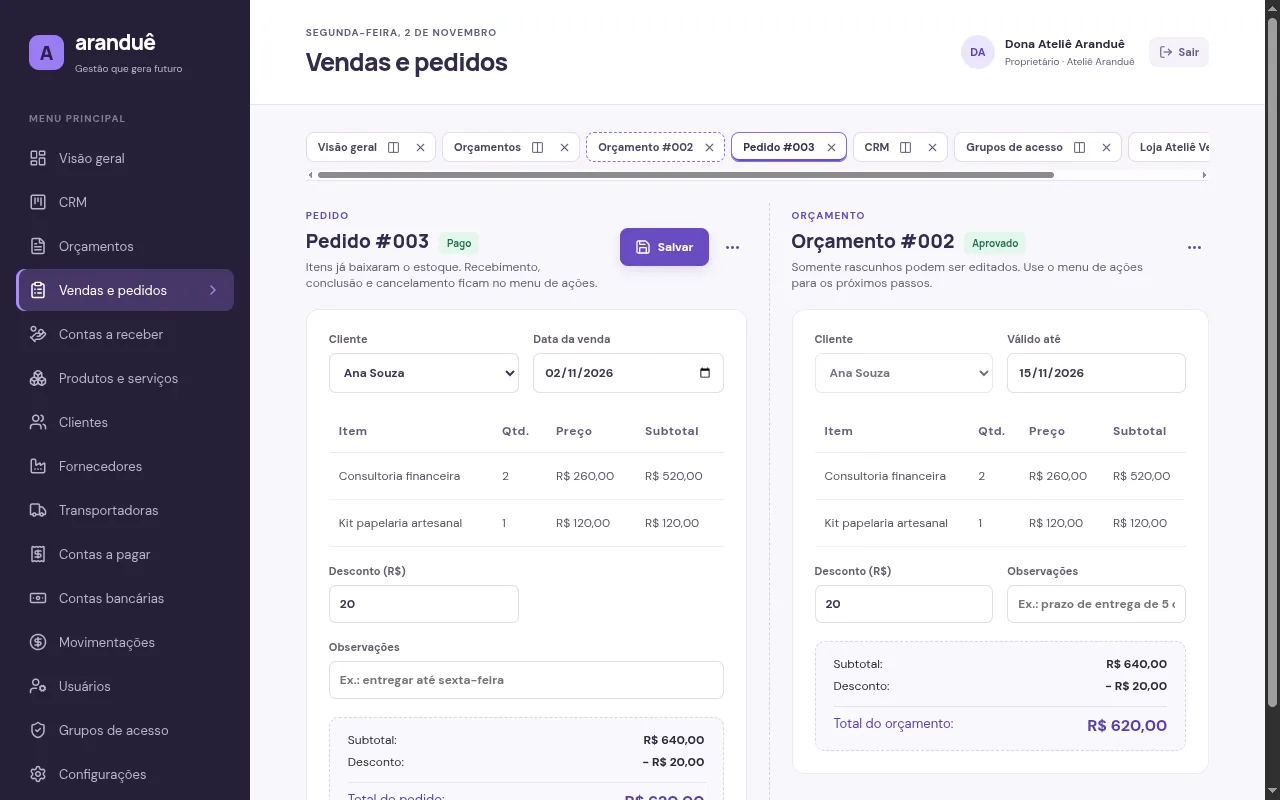
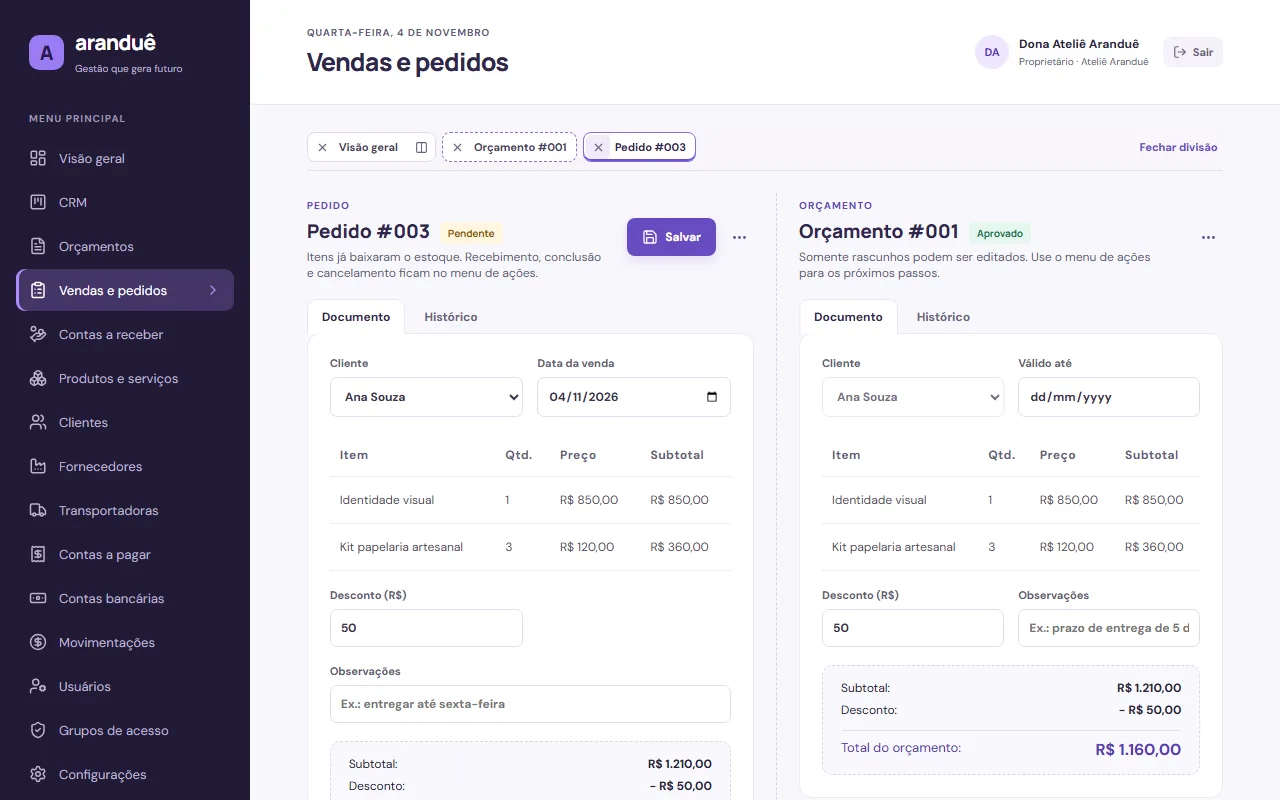
feat: vitrine do Aranduê atualizada para a v2.2 com histórico de alterações
Telas recapturadas com dados de demonstração, duas novas do histórico, oportunidades no lugar
dos leads e indicadores atuais de testes, permissões e tamanho do JavaScript.

diff --git a/projetos/arandue.html b/projetos/arandue.html
@@ -5,7 +5,7 @@
     <meta name="viewport" content="width=device-width, initial-scale=1.0" />
     <meta
       name="description"
-      content="Aranduê: SaaS de gestão para MEIs com orçamentos, vendas, estoque, financeiro, CRM e cadastro de pessoas, multiempresa e com permissões por ação."
+      content="Aranduê: SaaS de gestão para MEIs com orçamentos, vendas, estoque, financeiro, CRM e histórico de alterações, multiempresa e com permissões por ação."
     />
     <title>Aranduê · Portfólio Nabor N Silva</title>
     <link rel="shortcut icon" href="../img/favicon.ico" type="image/x-icon" />
@@ -23,7 +23,7 @@
     >
 
     <header class="hero">
-      <p class="eyebrow">Projeto 02 · SaaS full-stack · v2.1 · em evolução contínua</p>
+      <p class="eyebrow">Projeto 02 · SaaS full-stack · v2.2 · em evolução contínua</p>
       <h1>Aranduê</h1>
       <p class="lead">
         Gestão para microempreendedores individuais: orçamentos, vendas,
@@ -70,10 +70,30 @@
             />
             <figcaption>Telas abertas viram abas; dá para trabalhar em duas lado a lado, como um pedido e o orçamento de origem.</figcaption>
           </figure>
+          <figure class="galeria__larga">
+            <img
+              src="../img/arandue/historico-detalhe.webp"
+              alt="Detalhe de uma alteração em um orçamento: quem alterou, data e hora, e os valores de antes e depois do desconto, do total e dos itens."
+              width="1280"
+              height="800"
+              loading="lazy"
+            />
+            <figcaption>Cada alteração mostra quem fez, quando e o que mudou, com os valores de antes e depois.</figcaption>
+          </figure>
+          <figure>
+            <img
+              src="../img/arandue/historico.webp"
+              alt="Aba Histórico de um orçamento com a lista de ações: criou, alterou e enviou ao cliente, com usuário e horário."
+              width="1280"
+              height="800"
+              loading="lazy"
+            />
+            <figcaption>Histórico em cada orçamento e pedido; o clique abre o detalhe da alteração.</figcaption>
+          </figure>
           <figure>
             <img
               src="../img/arandue/orcamentos.webp"
-              alt="Lista de orçamentos com status e o menu de ações aberto: abrir, aprovar, recusar, duplicar, copiar para pedido e excluir."
+              alt="Lista de orçamentos com status e o menu de ações aberto: abrir, aprovar, recusar, cancelar, duplicar, copiar para pedido e vincular a uma oportunidade."
               width="1280"
               height="800"
               loading="lazy"
@@ -83,12 +103,12 @@
           <figure>
             <img
               src="../img/arandue/crm.webp"
-              alt="Funil de vendas em colunas com leads, origem, responsável e próxima ação; ações atrasadas em destaque."
+              alt="Funil de vendas em colunas com oportunidades, valor total por etapa, responsável e próxima ação; ações atrasadas em destaque."
               width="1280"
               height="800"
               loading="lazy"
             />
-            <figcaption>CRM com funil de vendas, próxima ação e alerta de atraso.</figcaption>
+            <figcaption>Funil com etapas configuráveis, valor por coluna, próxima ação e alerta de atraso.</figcaption>
           </figure>
           <figure>
             <img
@@ -147,16 +167,17 @@
           <li>
             <strong>Permissões sob medida</strong>
             <span
-              >49 permissões por ação em grupos de acesso. Um vendedor pode
+              >52 permissões por ação em grupos de acesso. Um vendedor pode
               aprovar os próprios orçamentos enquanto só o financeiro dá
               baixa.</span
             >
           </li>
           <li>
-            <strong>CRM com funil</strong>
+            <strong>Oportunidades e rastreio</strong>
             <span
-              >Leads por etapa, histórico de atendimentos por canal e lead
-              ganho virando cliente sem duplicar cadastro.</span
+              >Funil configurável que avança sozinho com os documentos. Cada
+              orçamento e pedido mostra de onde veio, e a oportunidade ganha
+              vira cliente sem duplicar cadastro.</span
             >
           </li>
           <li>
@@ -195,8 +216,12 @@
             >
           </li>
           <li>
-            <strong>Auditoria</strong>
-            <span>Registro de quem alterou o quê e quando.</span>
+            <strong>Histórico de alterações</strong>
+            <span
+              >Em orçamentos e pedidos: quem fez, quando e o que mudou, com
+              motivo obrigatório ao recusar ou cancelar. Documento excluído
+              deixa o registro.</span
+            >
           </li>
         </ul>
       </section>
@@ -214,6 +239,7 @@
           <li>Drizzle ORM</li>
           <li>Zod</li>
           <li>Vitest</li>
+          <li>Playwright</li>
           <li>GitHub Actions</li>
         </ul>
         <p>
@@ -229,9 +255,10 @@
       <section aria-labelledby="titulo-qualidade">
         <h2 id="titulo-qualidade">Segurança e qualidade</h2>
         <ul class="numeros">
-          <li><strong>55</strong><span>testes automatizados de integração</span></li>
+          <li><strong>90</strong><span>testes automatizados de integração</span></li>
+          <li><strong>17</strong><span>testes ponta a ponta no navegador</span></li>
           <li><strong>100</strong><span>em acessibilidade no Lighthouse (celular e desktop)</span></li>
-          <li><strong>~121 KB</strong><span>de JavaScript inicial (gzip)</span></li>
+          <li><strong>~118 KB</strong><span>de JavaScript inicial (gzip)</span></li>
         </ul>
         <ul class="lista">
           <li>Senhas com Argon2id e sessão em cookie seguro, revogada no logout.</li>
@@ -244,10 +271,10 @@
       <section aria-labelledby="titulo-proximos">
         <h2 id="titulo-proximos">Próximas versões</h2>
         <ol class="roteiro">
-          <li><strong>Oportunidades e rastreio:</strong> cada orçamento e pedido ligado à negociação que o originou, mesmo quando duplicado ou copiado.</li>
+          <li><strong>Histórico completo:</strong> registro detalhado em todos os módulos e tela geral de auditoria com filtros.</li>
           <li><strong>Publicação:</strong> deploy em São Paulo e demo ao vivo nesta página.</li>
           <li><strong>Produtividade:</strong> busca rápida, atalhos de teclado e filtros avançados.</li>
-          <li><strong>Documentos:</strong> orçamentos em seções, parcelas e impressão em PDF e DOCX.</li>
+          <li><strong>Documentos:</strong> orçamentos em seções, parcelas, espelho do cliente e espelho interno com margem, em PDF e DOCX.</li>
           <li><strong>Gestão:</strong> assistente de precificação e painel com indicadores personalizáveis.</li>
           <li><strong>Assistente de IA:</strong> chat de ajuda e bot no Telegram com confirmação antes de gravar.</li>
         </ol>

diff --git a/README.md b/README.md
@@ -6,8 +6,8 @@
 Este repositório reúne a evolução do meu portfólio pessoal e os projetos
 apresentados nele:
 
-- **Aranduê** *(projeto em destaque, v2.1)* — SaaS de gestão para MEIs, com
-  orçamentos, vendas, estoque, financeiro, CRM e cadastro de pessoas,
+- **Aranduê** *(projeto em destaque, v2.2)* — SaaS de gestão para MEIs, com
+  orçamentos, vendas, estoque, financeiro, CRM e histórico de alterações,
   multiempresa e com permissões por ação em grupos de acesso. O
   código fica em [nabornasc/Projeto-Final-Arandu-e-Recode](https://github.com/nabornasc/Projeto-Final-Arandu-e-Recode).
 - **Minha Calculadora** — calculadora web, atualmente na versão **0.1**.
